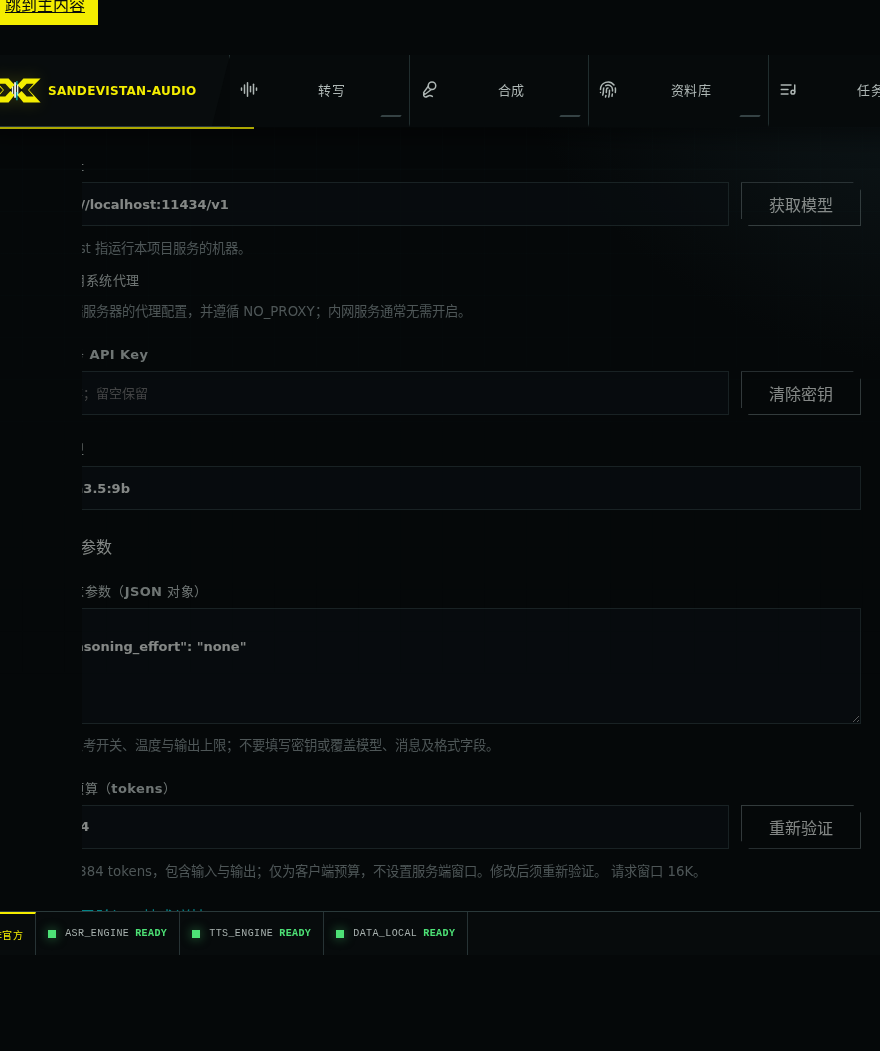
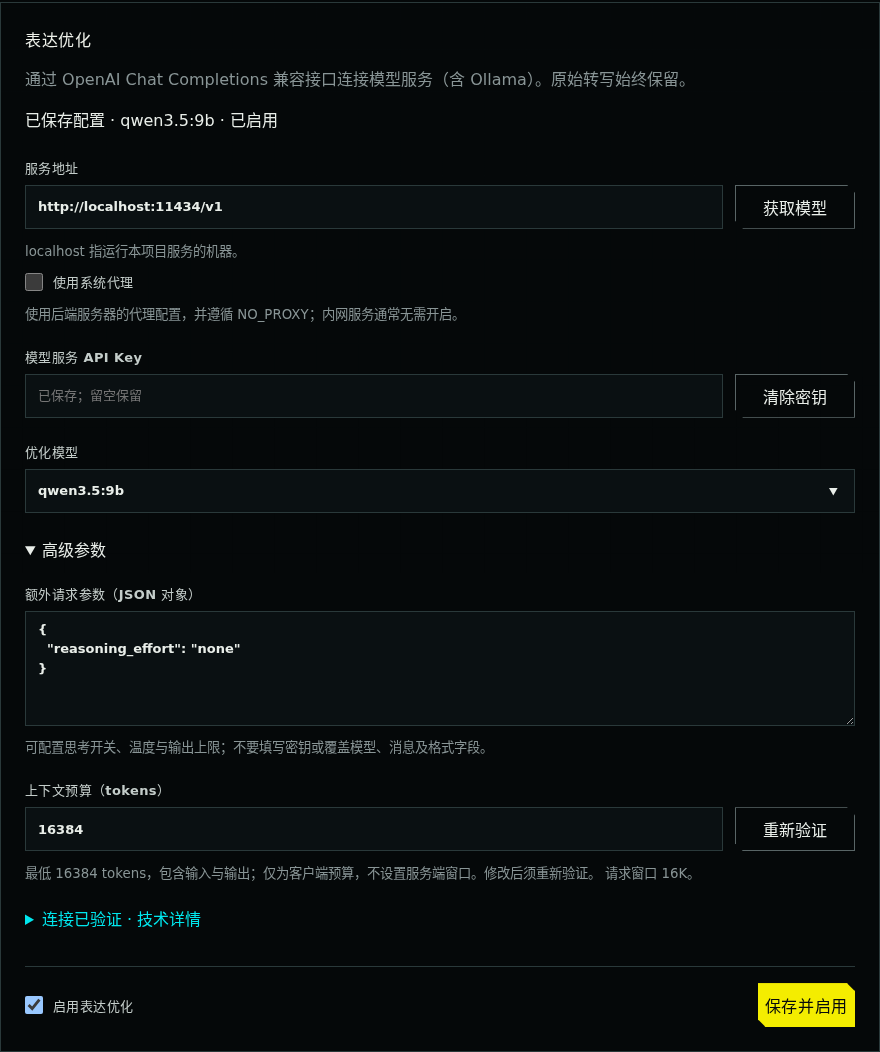
chore(release): prepare v0.1.42 and clean settings screenshots

diff --git a/frontend/e2e/optimization-provider.spec.ts b/frontend/e2e/optimization-provider.spec.ts
@@ -47,7 +47,12 @@ for(const width of [1440,390])test(`Chat Completions manual model and private ke
  await expect(panel.getByLabel('优化模型',{exact:true})).toHaveValue('qwen3.5:9b')
  await expect(panel.getByLabel('模型服务 API Key',{exact:true})).toHaveAttribute('placeholder','已保存；留空保留')
  await panel.getByText('高级参数',{exact:true}).click()
- await panel.screenshot({path:info.outputPath('chat-completions-settings-saved.png')})
+ // Expand the scroll container and hide shell chrome only while capturing this documentation panel.
+ await panel.screenshot({
+  path:info.outputPath('chat-completions-settings-saved.png'),
+  animations:'disabled',
+  style:'.app-shell{height:auto!important;overflow:visible!important}.app-shell>main{overflow:visible!important}.app-shell>header,.app-shell>footer,.skip-link{visibility:hidden!important}'
+ })
  await panel.getByText('高级参数',{exact:true}).click()
  await panel.getByRole('button',{name:'清除密钥',exact:true}).click()
  await expect(panel.getByRole('button',{name:'保存并启用',exact:true})).toBeDisabled()

diff --git a/audio_intel/version.py b/audio_intel/version.py
@@ -5,7 +5,7 @@ import subprocess
 from pathlib import Path
 
 
-RELEASE_VERSION = "0.1.41"
+RELEASE_VERSION = "0.1.42"
 
 _DESCRIBE_PATTERN = re.compile(
     r"^v(?P<version>\d+\.\d+\.\d+)-(?P<distance>\d+)-g(?P<commit>[0-9a-f]+)(?P<dirty>-dirty)?$",

diff --git a/docs/UPGRADE.md b/docs/UPGRADE.md
@@ -6,7 +6,7 @@
 
 表达优化统一使用 OpenAI Chat Completions 兼容接口。旧 Ollama 地址自动补 `/v1`，保留模型、代理与预算并填入 `reasoning_effort:none`，清除旧验证、关闭启用并暂停未完成优化。到系统状态重新验证、保存启用，再显式继续任务。上下文是客户端输入加输出预算，不再覆盖或查询实际服务端窗口；Ollama 窗口需在服务端配置。设置及密钥规则见[表达优化](EXPRESSION_OPTIMIZATION.md)。
 
-从 v19/v20/v21 升级前停服并创建 SQLite 一致快照，无需复制媒体。更新源码后执行 `./service.sh setup api`（Windows：`service.cmd setup api`）同步 API 环境并重建前端，恢复原 API、ASR/TTS supervisor 和 executor，验收后清理临时升级备份。API 依赖 pypdf 从6.21.2更新到6.21.4以修复已知漏洞；ASR/TTS/aligner依赖及模型不变。已为 v22 且无其他数据迁移的实例不需新增迁移备份。更早版本须累计核对下方历史迁移要求，尤其 pre-v19 的一次性旧优化清理。
+从 v19/v20/v21 升级前停服并创建 SQLite 一致快照，无需复制媒体。更新源码后执行 `./service.sh setup api`（Windows：`service.cmd setup api`）同步 API 环境并重建前端，恢复原 API、ASR/TTS supervisor 和 executor，验收后清理临时升级备份。API 依赖 pypdf 从 6.21.2 更新到 6.21.4 以修复已知漏洞；ASR/TTS/aligner 依赖及模型不变。已为 v22 且无其他数据迁移的实例不需新增迁移备份。更早版本须累计核对下方历史迁移要求，尤其 pre-v19 的一次性旧优化清理。
 
 English: Upgrading released v0.1.41 migrates SQLite v19→v22 additively, retaining jobs, drafts and checkpoints; no media rewrite. Legacy Ollama connections require re-verification before enabling. Context is now a client budget. Stop services and take a SQLite-only backup before migration, run setup api to update pypdf 6.21.4 and rebuild the UI, restore all original processes and verify before removing temporary backups. Already-v22 deployments without additional data migrations need no repeated upgrade backup. Earlier upgrades must include intervening requirements. Speech models and inference dependencies are unchanged.
 
